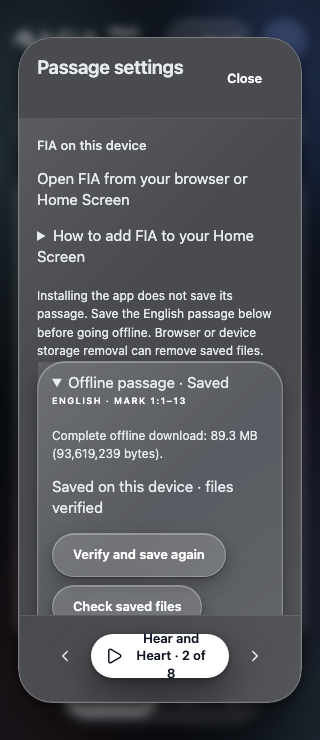
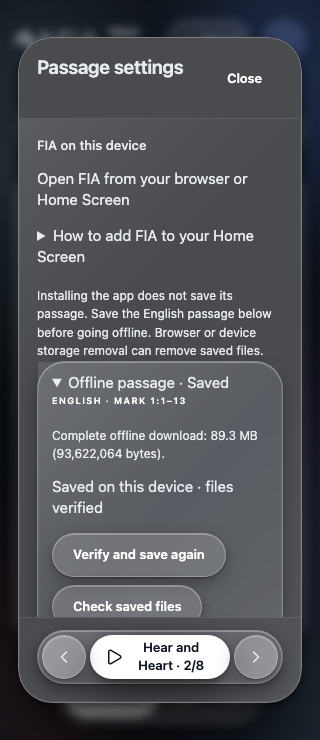
Verify PWA packaging against accepted shared UI integration

Changed region(s): [[0.0938, 0.8392, 0.9062, 0.9324], [0.25, 0.5905, 0.5, 0.6216]]

diff --git a/evidence/pwa/DEBRIEF.md b/evidence/pwa/DEBRIEF.md
@@ -4,7 +4,7 @@ Implemented the accepted PWA plan at `/tmp/fia-pwa-planning` under the existing 
 
 ## Validation
 
-- Production build and privacy/release verification passed: 200 required files, 93,619,239 bytes; 202 allowlisted public files; all 172 narration MP3 hashes unchanged.
+- Production build and privacy/release verification passed: 200 required files, 93,622,064 bytes; 202 allowlisted public files; all 172 narration MP3 hashes unchanged.
 - Unit tests: 44/44 passed. Offline integration/upgrade tests: 4/4 passed.
 - Actual persistent Chromium profile saved the pack, reopened its page, restarted the browser profile offline, retained theme/edition/progress, played offline audio, and did not autoplay. Removing the pack preserved workspace progress and did not claim a saved pack.
 - Install event UI test used an explicitly simulated beforeinstallprompt event; dismissal consumed the prompt once. This is not OS installation evidence. Fresh unsaved offline navigation failed rather than inventing available content.
@@ -24,3 +24,5 @@ A returning offline user needs both their saved passage and their place in it; i
 ## Accounting
 
 Prior interrupted author work is conservatively charged 6 minutes, retained without reset. Resumed at 2026-09-12 12:52:04 UTC. Final charge will be reported with the PR handoff within the existing author20/root7/coord3 allowance. Independent root review is separate; root reports icon review PASS using 1 of 7 review minutes. This cargo is ready for the remaining independent review, not a deployment receipt.
+
+Final integration: rebased onto main df73ba6ddceb5f69753603f37275b28da069bc15, preserving accepted shared UI and Spanish source-only inputs. App overlap merged cleanly; generated inventory was regenerated. Integrated production/release build and actual persistent-profile offline verification passed. Final author charge conservatively 18 of 20 minutes, including the retained 6 before interruption. No budget reset.
